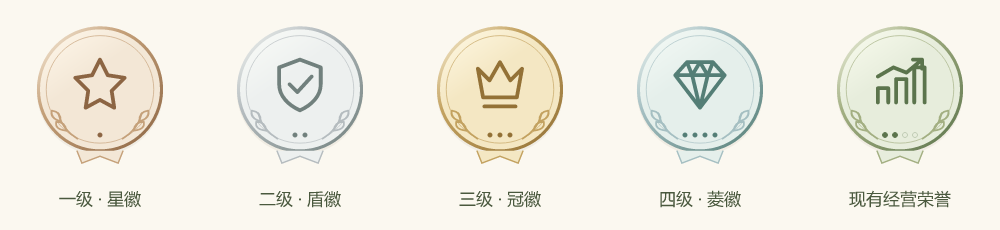
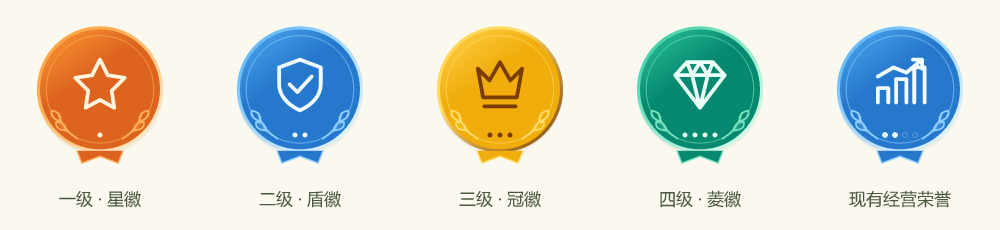
Use vivid saturated colors across merchant badges while preserving graphic style

diff --git a/api/admin/pages/web3.js b/api/admin/pages/web3.js
@@ -1422,7 +1422,7 @@ async function badges() {
     <div class="row"><button class="btn primary sm" onclick="createBadge()">＋ 新建徽章</button><span class="muted">外观（类别 / 稀有度 / 图标 / 系列）与获得规则（类型 / 阈值 / 城市 / 国家 / 发行上限）；没上传徽章图时按「类别 + 稀有度 + 图标」自动生成</span></div>
     <table style="margin-top:10px"><thead><tr><th>ID</th><th>图形</th><th>名称</th><th>类别 · 系列</th><th>获得规则</th><th>已发放</th><th>操作</th></tr></thead><tbody>
     ${shown.map((b) => { const pf = b.pf; const cat = pf.category === 'growth' ? 'level' : pf.category || 'special'; return `<tr><td>#${b.id}${isMBadge(b) ? '<div class="td-sub">商户</div>' : ''}</td>
-      <td><img src="${pf.icon_img ? esc(pf.icon_img) : '/badge-art/' + b.id + (cat === 'mlevel' ? '.png' : '.svg') + (isMBadge(b) ? '?v=merchant-consistent-20261108' : '')}" width="52" height="52" alt=""></td>
+      <td><img src="${pf.icon_img ? esc(pf.icon_img) : '/badge-art/' + b.id + (cat === 'mlevel' ? '.png' : '.svg') + (isMBadge(b) ? '?v=merchant-vivid-20261108' : '')}" width="52" height="52" alt=""></td>
       <td>${esc(b.name)}<div class="td-sub">${esc(BADGE_RAR[pf.rarity] || '普通')} · ${esc(b.icon_key)}</div></td>
       <td class="td-sub">${esc((BADGE_CATS.find((c) => c[0] === cat) || [0, { mlevel: '商户等级', mhonor: '经营荣誉' }[cat] || '特别'])[1])}${pf.series ? ' · ' + esc(pf.series) + (pf.tier ? ' 第' + Number(pf.tier) + '阶' : '') : ''}${pf.city_code ? ' · ' + esc(pf.city_code) : ''}${pf.country_code ? ' · ' + esc(pf.country_code) : ''}</td>
       <td class="td-sub">${esc(b.rule_desc || '—')}<div>${esc(ruleName[b.rule_type] || b.rule_type)}${pf.threshold ? ' ≥ ' + Number(pf.threshold) : ''}</div></td>
@@ -1436,13 +1436,13 @@ async function badges() {
   </div>
   <div class="card">
     <div class="card-head"><h3>商户等级徽章</h3><span class="muted">等级名、订单 / 评价 / 评分 / 退款率门槛、权益说明在「参数中心 → 商户经营等级体系」修改（双人复核）；徽章图形随等级自动变化（与经营荣誉同系列，星徽 / 盾徽 / 冠徽 / 菱徽递进，经营门槛不变）</span></div>
-    <div class="row" style="gap:18px;flex-wrap:wrap">${(mlvs || []).map((l) => `<div style="text-align:center;width:150px"><img src="/badge-art/mlevel/${l.lv}.png?v=merchant-consistent-20261108" width="112" height="112" alt=""><div><b>Lv${l.lv} ${esc(l.name)}</b></div><div class="td-sub">订单 ≥${l.minOrders} · 评价 ≥${l.minReviews}</div><div class="td-sub">${l.minRating ? '评分 ≥' + l.minRating / 10 : '不限评分'} · 退款率 ≤${l.maxRefundPct}%</div></div>`).join('')}</div>
+    <div class="row" style="gap:18px;flex-wrap:wrap">${(mlvs || []).map((l) => `<div style="text-align:center;width:150px"><img src="/badge-art/mlevel/${l.lv}.png?v=merchant-vivid-20261108" width="112" height="112" alt=""><div><b>Lv${l.lv} ${esc(l.name)}</b></div><div class="td-sub">订单 ≥${l.minOrders} · 评价 ≥${l.minReviews}</div><div class="td-sub">${l.minRating ? '评分 ≥' + l.minRating / 10 : '不限评分'} · 退款率 ≤${l.maxRefundPct}%</div></div>`).join('')}</div>
   </div>
   <div class="card">
-    <div class="card-head"><h3>商户等级图形预览</h3><span class="muted">与经营荣誉保持统一图形风格；用配色、主图与等级标记区分，黑金为配色备选</span></div>
-    <div class="row" style="gap:20px;flex-wrap:wrap">${[['bronze','铜色'],['silver','银色'],['gold','金色'],['diamond','钻石'],['blackgold','黑金']].map(([metal,name])=>`<div style="text-align:center;width:150px"><img src="/badge-art/mlevel/1.png?metal=${metal}&v=merchant-consistent-20261108" width="128" height="128" alt="${name}等级图形"><div><b>${name}</b></div></div>`).join('')}</div>
+    <div class="card-head"><h3>商户等级图形预览</h3><span class="muted">与经营荣誉保持统一图形风格；用亮丽配色、主图与等级标记区分；第五款仅为配色备选</span></div>
+    <div class="row" style="gap:20px;flex-wrap:wrap">${[['bronze','星徽'],['silver','盾徽'],['gold','冠徽'],['diamond','菱徽'],['blackgold','深色备选']].map(([metal,name])=>`<div style="text-align:center;width:150px"><img src="/badge-art/mlevel/1.png?metal=${metal}&v=merchant-vivid-20261108" width="128" height="128" alt="${name}等级图形"><div><b>${name}</b></div></div>`).join('')}</div>
     <div class="card-head" style="margin-top:24px"><h3>设计预览 · 各类徽章 × 稀有度</h3><span class="muted">每一类有自己的造型与材质；游客可信勋章保留既有样式</span></div>
-    ${[['city', 'bridge', '城市徽章 · 朱红印章'], ['country', 'flag', '国家徽章 · 护照出入境章'], ['trusted', 'seal', '链上勋章 · 玻璃质感'], ['trusted', 'shieldcheck', '商户可信 · 林绿盾章', 'merchant'], ['member', 'heart', '会员荣誉 · 月桂缎带'], ['mhonor', 'store', '商户荣誉 · 暖色珐琅奖章'], ['journey', 'ticket', '旅程 · 盾牌'], ['explore', 'compass', '足迹 · 六边形'], ['creator', 'pen', '创作 · 花边圆章']].map(([c, ic, n, audience]) => `<div class="row" style="gap:12px;align-items:center;margin-bottom:6px"><span class="muted" style="width:150px">${n}</span>${['common', 'rare', 'epic', 'legend'].map((r) => `<img src="/badge-art/preview.svg?category=${c}&rarity=${r}&icon_key=${ic}&country_code=CN&seed=${c}${r}&audience=${audience || 'tourist'}&v=merchant-consistent-20261108" width="72" height="72" alt="" title="${BADGE_RAR[r]}">`).join('')}</div>`).join('')}
+    ${[['city', 'bridge', '城市徽章 · 朱红印章'], ['country', 'flag', '国家徽章 · 护照出入境章'], ['trusted', 'seal', '链上勋章 · 玻璃质感'], ['trusted', 'shieldcheck', '商户可信 · 林绿盾章', 'merchant'], ['member', 'heart', '会员荣誉 · 月桂缎带'], ['mhonor', 'store', '商户荣誉 · 暖色珐琅奖章'], ['journey', 'ticket', '旅程 · 盾牌'], ['explore', 'compass', '足迹 · 六边形'], ['creator', 'pen', '创作 · 花边圆章']].map(([c, ic, n, audience]) => `<div class="row" style="gap:12px;align-items:center;margin-bottom:6px"><span class="muted" style="width:150px">${n}</span>${['common', 'rare', 'epic', 'legend'].map((r) => `<img src="/badge-art/preview.svg?category=${c}&rarity=${r}&icon_key=${ic}&country_code=CN&seed=${c}${r}&audience=${audience || 'tourist'}&v=merchant-vivid-20261108" width="72" height="72" alt="" title="${BADGE_RAR[r]}">`).join('')}</div>`).join('')}
     <div class="card-head" style="margin-top:12px"><h3>图标库</h3><span class="muted">图标键写在图标下方，新建徽章时填入</span></div>
     <div class="row" style="gap:12px;flex-wrap:wrap">${BADGE_ICONS.map((k) => `<div style="text-align:center;width:68px"><img src="/badge-art/preview.svg?icon_key=${k}&rarity=rare&category=explore" width="56" height="56" alt="${k}"><div class="td-sub">${k}</div></div>`).join('')}</div>
   </div>

diff --git a/docs/商户徽章同系列纠偏-20261108.md b/docs/商户徽章同系列纠偏-20261108.md
@@ -2,6 +2,6 @@
 
 最新要求是保持与既有经营荣誉相同的图形语言，而非使用写实金属材质。此前的房屋认证牌和写实金属奖牌均已弃用。
 
-认证改为与经营荣誉共用的圆章、细边、枝叶、线条主图及小绶带，四档以星徽、盾徽、冠徽、菱徽和一至四个等级点位区分。配色提供铜色、银色、金色、青绿及深色备选，不做写实材质。现有四档经营资格与门槛保持原值。后台移除写实材质预览文案，改为同系列图形预览；原metal查询参数仅兼容配色选择，不再读取或嵌入位图。
+认证改为与经营荣誉共用的圆章、细边、枝叶、线条主图及小绶带，四档以星徽、盾徽、冠徽、菱徽和一至四个等级点位区分。按用户追加要求，已获得徽章使用饱和橙、亮蓝、金黄、翠绿及深蓝金备选，禁用发白的浅色底；未获得以清晰灰阶区分。保持图形风格一致，不做写实材质。现有四档经营资格与门槛保持原值。后台移除写实材质预览文案，改为同系列图形预览；原metal查询参数仅兼容配色选择，不再读取或嵌入位图。
 
-原写实生成图仅作为已弃用历史素材保留，不再被运行代码引用；不重新生成图片。npm test退出0，五款配色64px已获得/未获得输出、现有四档不扩增和图形不含image位图检查通过。源码预览将四枚认证与一枚现有经营荣誉并排，见[同系列对照](evidence/merchant-consistent-20261108/preview.png)。提交后同步8080并追加实际页面验证。
+原写实生成图仅作为已弃用历史素材保留，不再被运行代码引用；不重新生成图片。npm test退出0，五款配色64px已获得/未获得输出、现有四档不扩增和图形不含image位图检查通过。源码预览将四枚认证与一枚现有经营荣誉并排，见[同系列对照](evidence/merchant-consistent-20261108/preview.png)。当前源代码的同系列亮色对照已更新；部署后同步复查实际页面。

diff --git a/docs/AI交接手册-20261102.md b/docs/AI交接手册-20261102.md
@@ -40,7 +40,7 @@
 
 商户20枚徽章采用暖色珐琅系列，等级认证、经营荣誉和可信经营分轮廓设计；不更改发放规则或实际状态。图册与接入记录见 [商户徽章批量重设计-20261108.md](商户徽章批量重设计-20261108.md)。
 
-当前认证必须与其他经营荣誉同系列，使用圆章、线条主图、枝叶与小绶带，禁用房屋和写实材质；以 [商户徽章同系列纠偏-20261108.md](商户徽章同系列纠偏-20261108.md) 为准。此前写实金属方案已被用户否定，仅作历史记录；四档资格和门槛不变。
+当前认证必须与其他经营荣誉同系列，使用圆章、线条主图、枝叶与小绶带，已获得必须饱和亮色，禁用浅淡配色、房屋和写实材质；以 [商户徽章同系列纠偏-20261108.md](商户徽章同系列纠偏-20261108.md) 为准。此前写实金属方案已被用户否定，仅作历史记录；四档资格和门槛不变。
 
 **已定的决策**：
 
